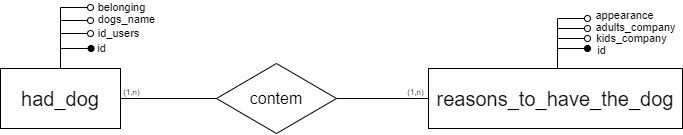
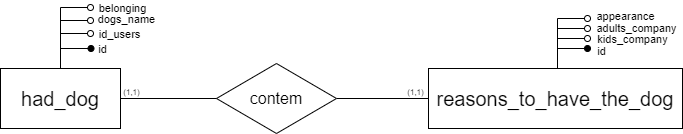
docs: atualiza a cardinalidade dos relacionamentos das tabelas

diff --git a/README.md b/README.md
@@ -147,7 +147,7 @@ No quinto modelo conceitual, está presente a mesma entidade `users` e uma outra
 
 </div>
 
-No sexto modelo conceitual, as entidades se diferem dos modelos anteriores, sendo uma entidade `had_dog` e uma outra entidade `reasons_to_have_the_dog`, que se relacionam por uma ação chamada `contem`. Além disso, o relacionamento desse modelo possui a cardinalidade um para muitos (N:N).
+No sexto modelo conceitual, as entidades se diferem dos modelos anteriores, sendo uma entidade `had_dog` e uma outra entidade `reasons_to_have_the_dog`, que se relacionam por uma ação chamada `contem`. Além disso, o relacionamento desse modelo possui a cardinalidade um para um (1:1).
 
 <div align="center" width="100%">
 
@@ -159,7 +159,7 @@ No sexto modelo conceitual, as entidades se diferem dos modelos anteriores, send
 
 </div>
 
-No sétimo modelo conceitual, as entidades presentes são `have_dog` e `reasons_to_have_the_dog`, que se relacionam por uma ação chamada `contem`. Além disso, o relacionamento desse modelo possui a cardinalidade um para muitos (N:N).
+No sétimo modelo conceitual, as entidades presentes são `have_dog` e `reasons_to_have_the_dog`, que se relacionam por uma ação chamada `contem`. Além disso, o relacionamento desse modelo possui a cardinalidade um para um (1:1).
 
 <div align="center" width="100%">
 
@@ -171,7 +171,7 @@ No sétimo modelo conceitual, as entidades presentes são `have_dog` e `reasons_
 
 </div>
 
-Por fim, no último modelo conceitual, as entidades presentes são `want_dog` e `reasons_to_have_the_dog`, que se relacionam por uma ação chamada `contem`. Além disso, o relacionamento desse modelo possui a cardinalidade um para muitos (N:N).
+Por fim, no último modelo conceitual, as entidades presentes são `want_dog` e `reasons_to_have_the_dog`, que se relacionam por uma ação chamada `contem`. Além disso, o relacionamento desse modelo possui a cardinalidade um para um (1:1).
 
 ### 2.2. Modelo Lógico
 Considerando os modelos conceituais, foi possível desenvolver o modelo lógico utilizando o software <a href="https://sql.toad.cz/">SQL Designer</a>
@@ -354,9 +354,9 @@ A cardinalidade do relacionamento entre `present_form` e `users` é um para muit
 - Cada usuário pode possuir um ou mais cachorros, onde um lado (usuários) pode ter múltiplas correspondências no outro lado (cachorros).
 - Cada registro na tabela `present_form` está vinculado a exatamente um usuário, garantindo que cada cachorro é registrado sob um único dono.
 
-Enquanto isso, a cardinalidade do relacionamento entre `present_form` e `reasons_for_owning_dog` é muitos para muitos (N:N), isso porque:
-- Cada cachorro pode ter múltiplas razões associadas a ele sobre por que ele é mantido.
-- Cada razão para ter um cachorro pode ser associada a vários cachorros. Isso implica que as mesmas razões podem ser aplicáveis a diferentes cachorros pertencentes a vários usuários.
+Enquanto isso, a cardinalidade do relacionamento entre `present_form` e `reasons_for_owning_dog` é um para um (1:1), isso porque:
+- Cada entrada em `present_form` está vinculada a exatamente uma entrada em `reasons_to_have_the_dog`. Isso implica que para cada cachorro registrado, há uma única razão específica registrada sobre por que o cachorro é mantido.
+- Cada razão em `reasons_to_have_the_dog` está conectada a exatamente um registro em `present_form`. Isto indica que cada razão é exclusiva para um único cachorro no sistema.
 
 ### Relacionamento entre `past_form`, `users` e `reasons_for_owning_dog`
 
@@ -374,9 +374,9 @@ A cardinalidade do relacionamento entre `past_form` e `users` é um para muitos 
 - Cada usuário pode ter um ou mais cachorros. Isso permite aos usuários terem múltiplos registros de cachorros associados a eles.
 - Cada registro de cachorro está vinculado a exatamente um usuário. Isso garante que cada cachorro listado no sistema seja único para um usuário, sem compartilhamento entre diferentes usuários.
 
-Enquanto isso, a cardinalidade do relacionamento entre `past_form` e `reasons_for_owning_dog` é muitos para muitos (N:N), isso porque:
-- Cada cachorro pode ter múltiplas razões associadas a ele sobre por que ele foi mantido.
-- Cada razão para ter tido um cachorro pode ser associada a vários cachorros. Isso implica que as mesmas razões podem ser aplicáveis a diferentes cachorros pertencentes a vários usuários.
+Enquanto isso, a cardinalidade do relacionamento entre `past_form` e `reasons_for_owning_dog` é um para um (1:1), isso porque:
+- Cada registro de cachorro em `past_form` está vinculado a uma única razão na tabela `reasons_to_have_the_dog`. 
+- Cada razão na tabela `reasons_to_have_the_dog` é associada a um único cachorro na tabela `past_form`. 
 
 ### Relacionamento entre `future_form`, `users` e `reasons_for_owning_dog`
 
@@ -393,9 +393,9 @@ A cardinalidade do relacionamento entre `future_form` e `users` é um para muito
 - Cada usuário pode preencher múltiplas preferências sobre o tipo de cachorro que deseja. 
 - Cada registro na tabela future_form está associado a exatamente um usuário.
 
-Enquanto isso, a cardinalidade do relacionamento entre `past_form` e `reasons_for_owning_dog` é muitos para muitos (N:N), isso porque:
-- Cada preferência de usuário por ter um cachorro pode estar associada a múltiplas razões listadas em reasons_to_have_the_dog. 
-- Cada razão para ter um cachorro pode ser associada a várias preferências de diferentes usuários. Isso significa que as mesmas razões podem ser comuns entre diversos usuários que querem um cachorro.
+Enquanto isso, a cardinalidade do relacionamento entre `future_form` e `reasons_for_owning_dog` é um para um (1:1), isso porque:
+- Cada registro em `future_form` está diretamente associado a um registro em `reasons_for_owning_dog`, e vice-versa. Isso significa que para cada cachorro, existe uma única e específica razão associada a ele dentro do sistema.
+- Cada razão documentada em `reasons_for_owning_dog` está vinculada a um único cachorro em `future_form`, indicando que não há compartilhamento de razões entre diferentes cachorros.
 
 ### Relacionamento entre `null_form` e `users`
 
